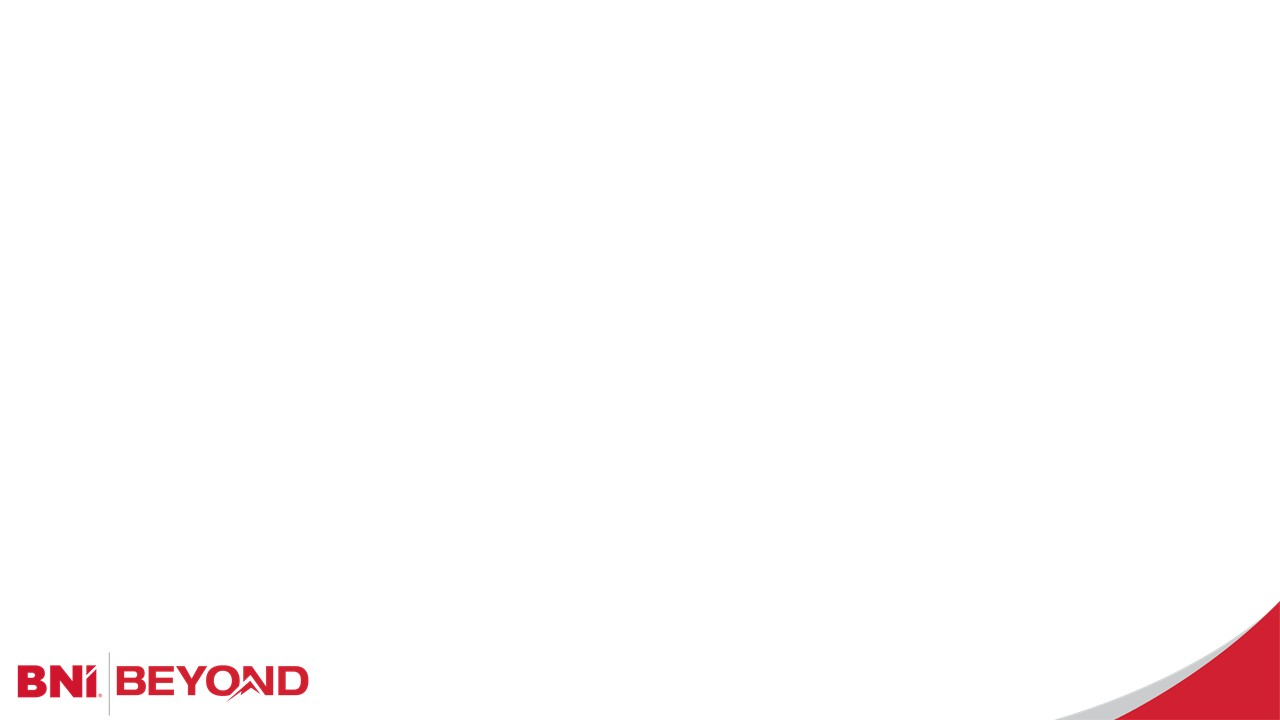
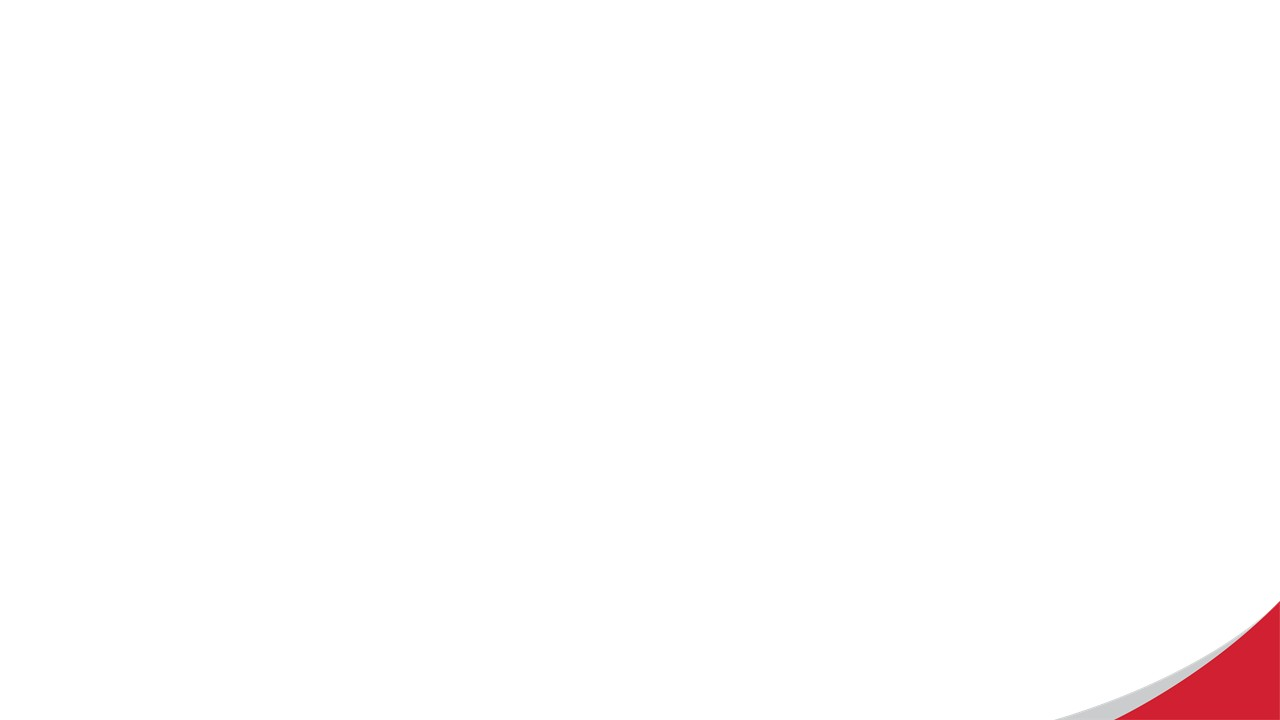
1

Changed region(s): [[0.0, 0.9167, 0.25, 0.9778]]

diff --git a/BNI/簡報/123.html b/BNI/簡報/123.html
@@ -5,100 +5,166 @@
   <meta name="viewport" content="width=device-width, initial-scale=1.0"/>
   <title>BNI 簡報</title>
   <style>
-    * { box-sizing: border-box; }
-    body, html {
+    * {
       margin: 0;
       padding: 0;
-      font-family: "Microsoft JhengHei", sans-serif;
-      background-color: #ffffff;
-    }
-    .slide {
-      display: flex;
-      flex-direction: row;
-      height: 100vh;
-      padding: 40px;
-      justify-content: space-between;
-      align-items: center;
+      box-sizing: border-box;
     }
 
-    .left, .right {
-      flex: 1;
-      padding: 20px;
+    html, body {
+      width: 100%;
+      height: 100%;
+      font-family: "Microsoft JhengHei", sans-serif;
+      overflow: hidden;
+    }
+
+body::before {
+  content: "";
+  position: fixed;
+  top: 0;
+  left: 0;
+  width: 100vw;
+  height: 100vh;
+  background: url('https://jacky995.github.io/BNI/BNI/簡報/背板1.jpg') no-repeat bottom right;
+  background-size: contain;
+  background-position: bottom right;
+  z-index: -1;
+  filter: brightness(1);
+}
+
+
+
+    .slide {
+      width: 100%;
+      height: 100%;
+      max-width: 1600px;
+      margin: 0 auto;
+      display: grid;
+      grid-template-columns: 1fr 1.5fr 1fr;
+      align-items: center;
+      justify-items: center;
+      padding: 40px 60px;
+      position: relative;
+      background: transparent;
+      gap: 40px;
     }
 
     .left {
+      display: flex;
+      flex-direction: column;
+      align-items: center;
       text-align: center;
-      color: #8c0000;
+      gap: 60px;
+    }
+
+    .left img {
+      width: 180px;
+      margin-bottom: 10px;
     }
 
     .left h1 {
-      font-size: 3em;
-      margin: 0.2em 0;
-      color: black;
+      font-size: 3.2em;
+      color: #111;
+      letter-spacing: 1px;
+      margin-bottom: 6px;
     }
 
     .left h2 {
-      font-size: 2em;
-      margin: 0.2em 0;
+      font-size: 2.2em;
       color: #b80000;
+      font-weight: 600;
+      margin-bottom: 6px;
     }
 
     .left p {
-      font-size: 1.2em;
+      font-size: 2.1em;
       color: #8c0000;
-      margin-top: 1em;
+      opacity: 0.9;
+      margin-top: 20px;
     }
 
     .center {
-      flex: 1;
-      text-align: center;
+      display: flex;
+      justify-content: center;
+      align-items: center;
     }
 
     .center img {
       max-height: 80vh;
-      border-radius: 10px;
-      box-shadow: 0 0 15px rgba(0,0,0,0.15);
+      max-width: 100%;
+      border-radius: 18px;
+      box-shadow: 0 20px 40px rgba(0, 0, 0, 0.15);
+      object-fit: cover;
     }
 
     .right {
-      font-size: 1.2em;
-      line-height: 1.8em;
+      font-size: 1.05em;
+      color: #222;
+      line-height: 1.9em;
+      padding: 0 10px;
     }
 
     .right h3 {
-      font-size: 1.5em;
-      color: #444;
-      margin-bottom: 0.5em;
-    }
-
-    .red { color: #b80000; font-weight: bold; }
-    .blue { color: #004488; font-weight: bold; }
-    .section {
-      margin-bottom: 2em;
+      font-size: 1.6em;
+      margin-bottom: 0.4em;
+      font-weight: 700;
+      color: #222;
     }
 
     .icon {
-      font-size: 2em;
-      margin-bottom: 0.2em;
+      font-size: 1.9em;
+      margin-bottom: 0.3em;
+    }
+
+    .red {
+      color: #b80000;
+      font-weight: 600;
+    }
+
+    .blue {
+      color: #004488;
+      font-weight: 600;
+      font-size: 1.7em;
+      margin-top: 1.8em;
+      line-height: 1.8em;
+    }
+
+    .section {
+      margin-bottom: 2em;
+      border-top: 1px solid #ddd;
+      padding-top: 1.2em;
+      width: 100%;
+    }
+
+    .section:first-child {
+      border-top: none;
+      padding-top: 0;
+    }
+
+    .section:last-child {
+      border-top: none;
     }
   </style>
 </head>
 <body>
   <div class="slide">
+    <!-- 左側欄 -->
     <div class="left">
-      <img src="https://jacky995.github.io/BNI/BNI/簡報/logo.png" alt="BNI" style="width: 120px;">
+      <img src="https://jacky995.github.io/BNI/BNI/簡報/logo.png" alt="BNI Logo">
       <h1>陳晉融</h1>
       <h2>保險業</h2>
       <p>永達保險經紀人</p>
     </div>
 
+    <!-- 中間欄 -->
     <div class="center">
-      <img src="https://jacky995.github.io/BNI/j/J.jpg" alt="陳晉融">
+      <img src="https://jacky995.github.io/BNI/j/J.jpg" alt="形象照">
     </div>
 
+    <!-- 右側欄 -->
     <div class="right">
       <div class="section">
-        <div class="icon">💎</div>
+        <div class="icon">🌟</div>
         <h3>服務項目</h3>
         <div class="red">
           保險金信託<br>
@@ -107,7 +173,7 @@
         </div>
       </div>
       <div class="section">
-        <div class="icon">👪</div>
+        <div class="icon">🎯</div>
         <h3>目標客群</h3>
         <div>
           20人以下中小企業主<br>
@@ -115,11 +181,9 @@
           離婚族群
         </div>
       </div>
-      <div class="section">
-        <div class="blue">
-          資產保全找晉融<br>
-          家庭美滿樂融融
-        </div>
+      <div class="section blue">
+        資產保全找晉融<br>
+        家庭美滿樂融融
       </div>
     </div>
   </div>
